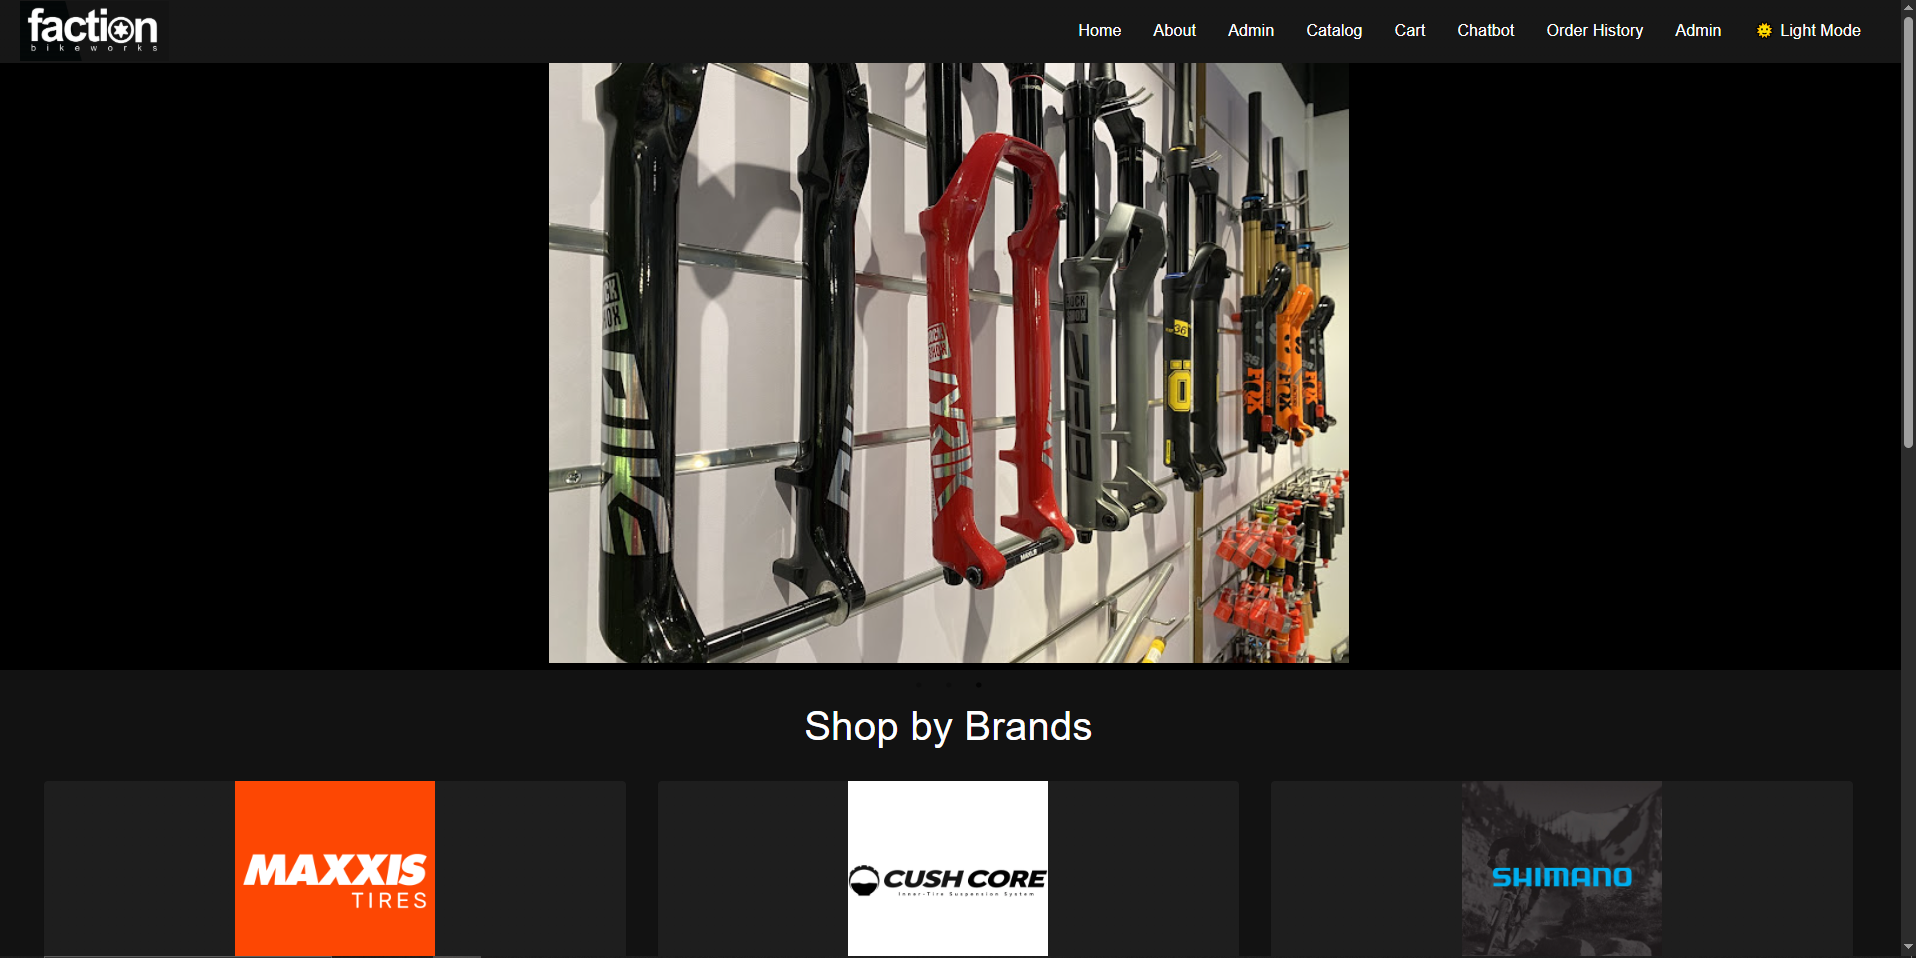
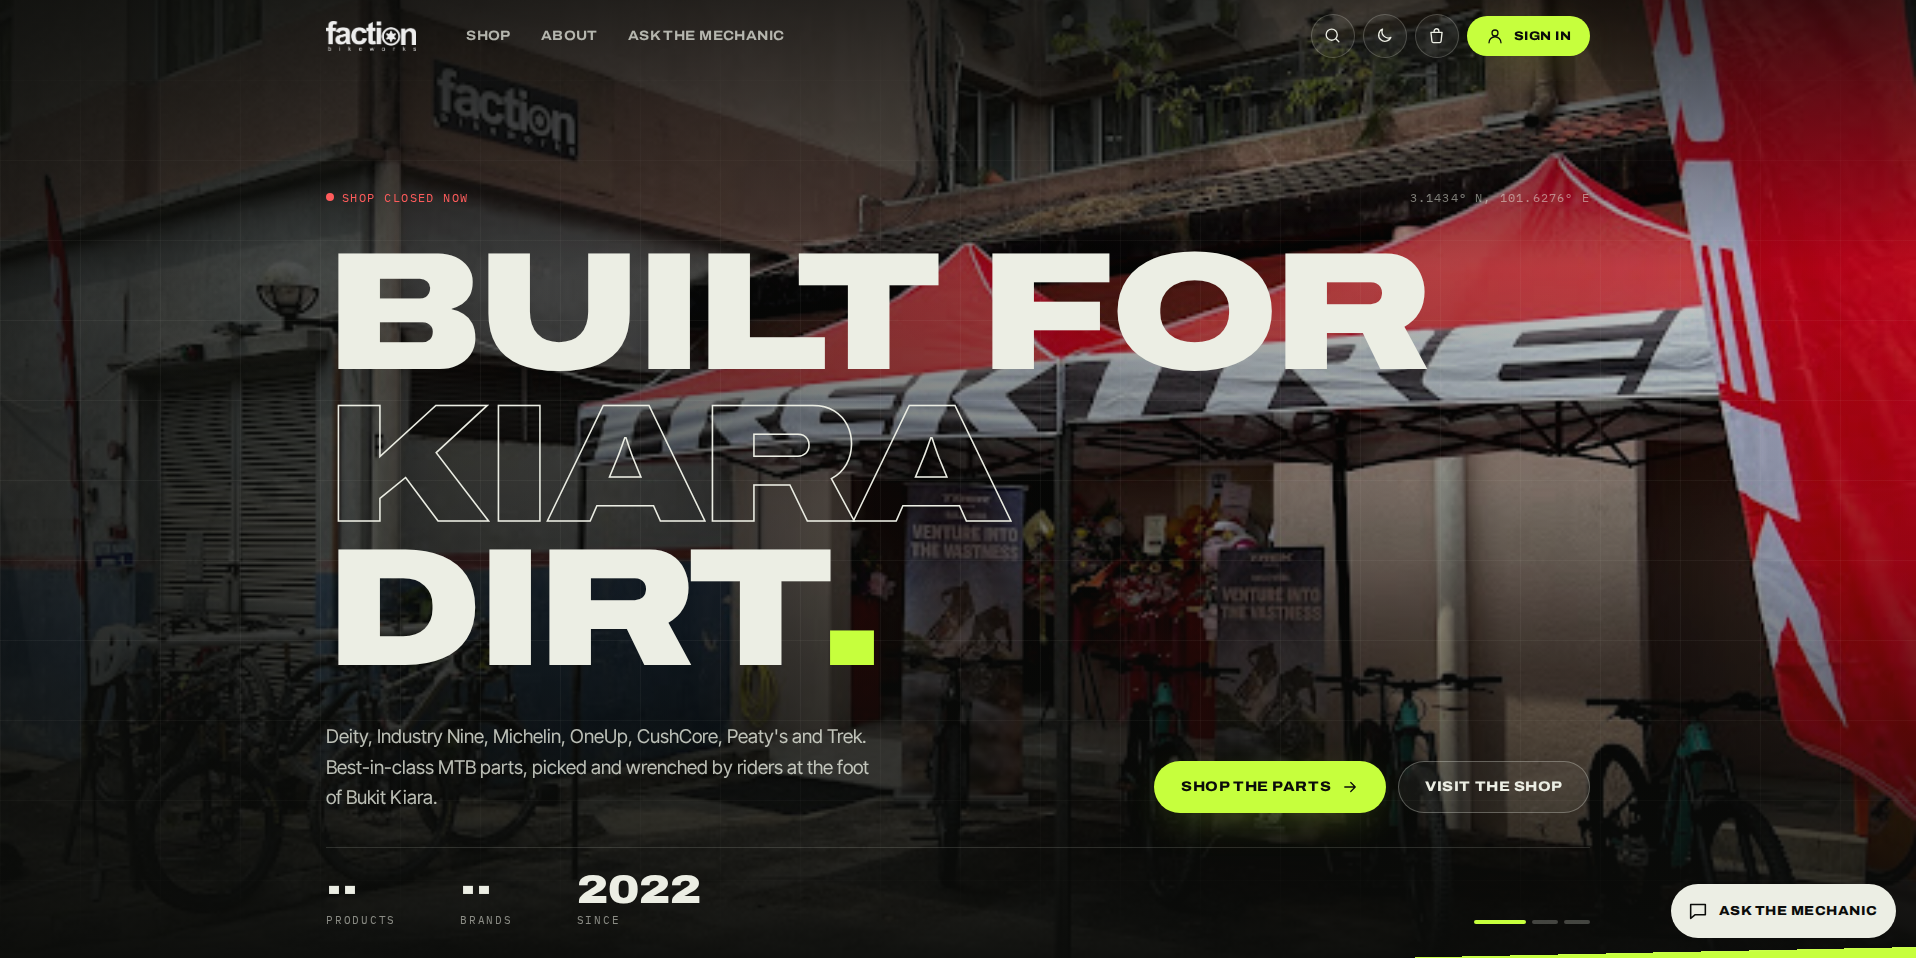
Update the bike shop portfolio listing (#6)

diff --git a/frontend/src/data/portfolio.ts b/frontend/src/data/portfolio.ts
@@ -177,7 +177,8 @@ export const projects: Project[] = [
     ],
     images: [{ src: "/faction.png", alt: "Faction Bikeworks storefront" }],
     category: "web",
-    note: "No longer hosted",
+    href: "https://bikeshop.junkit.my",
+    linkLabel: "View Live",
   },
   {
     name: "Reinforcement Learning on Traffic Signals",
